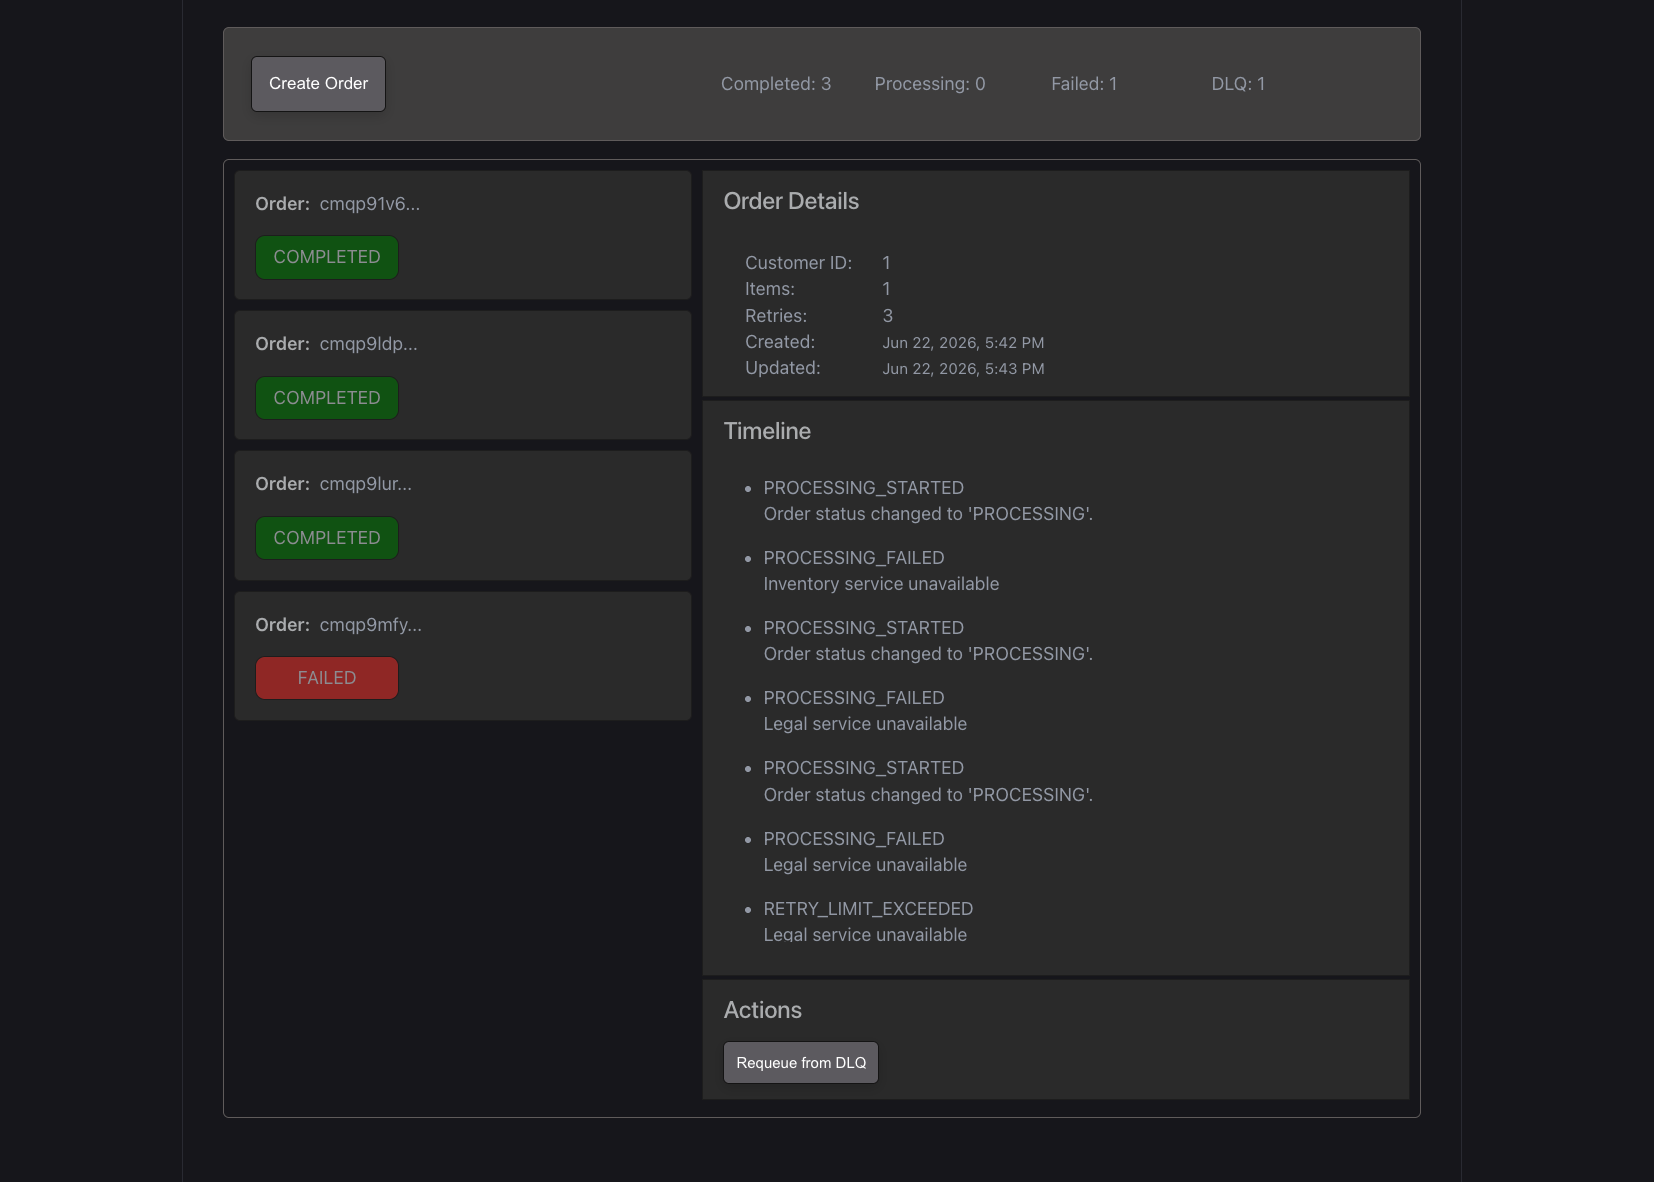
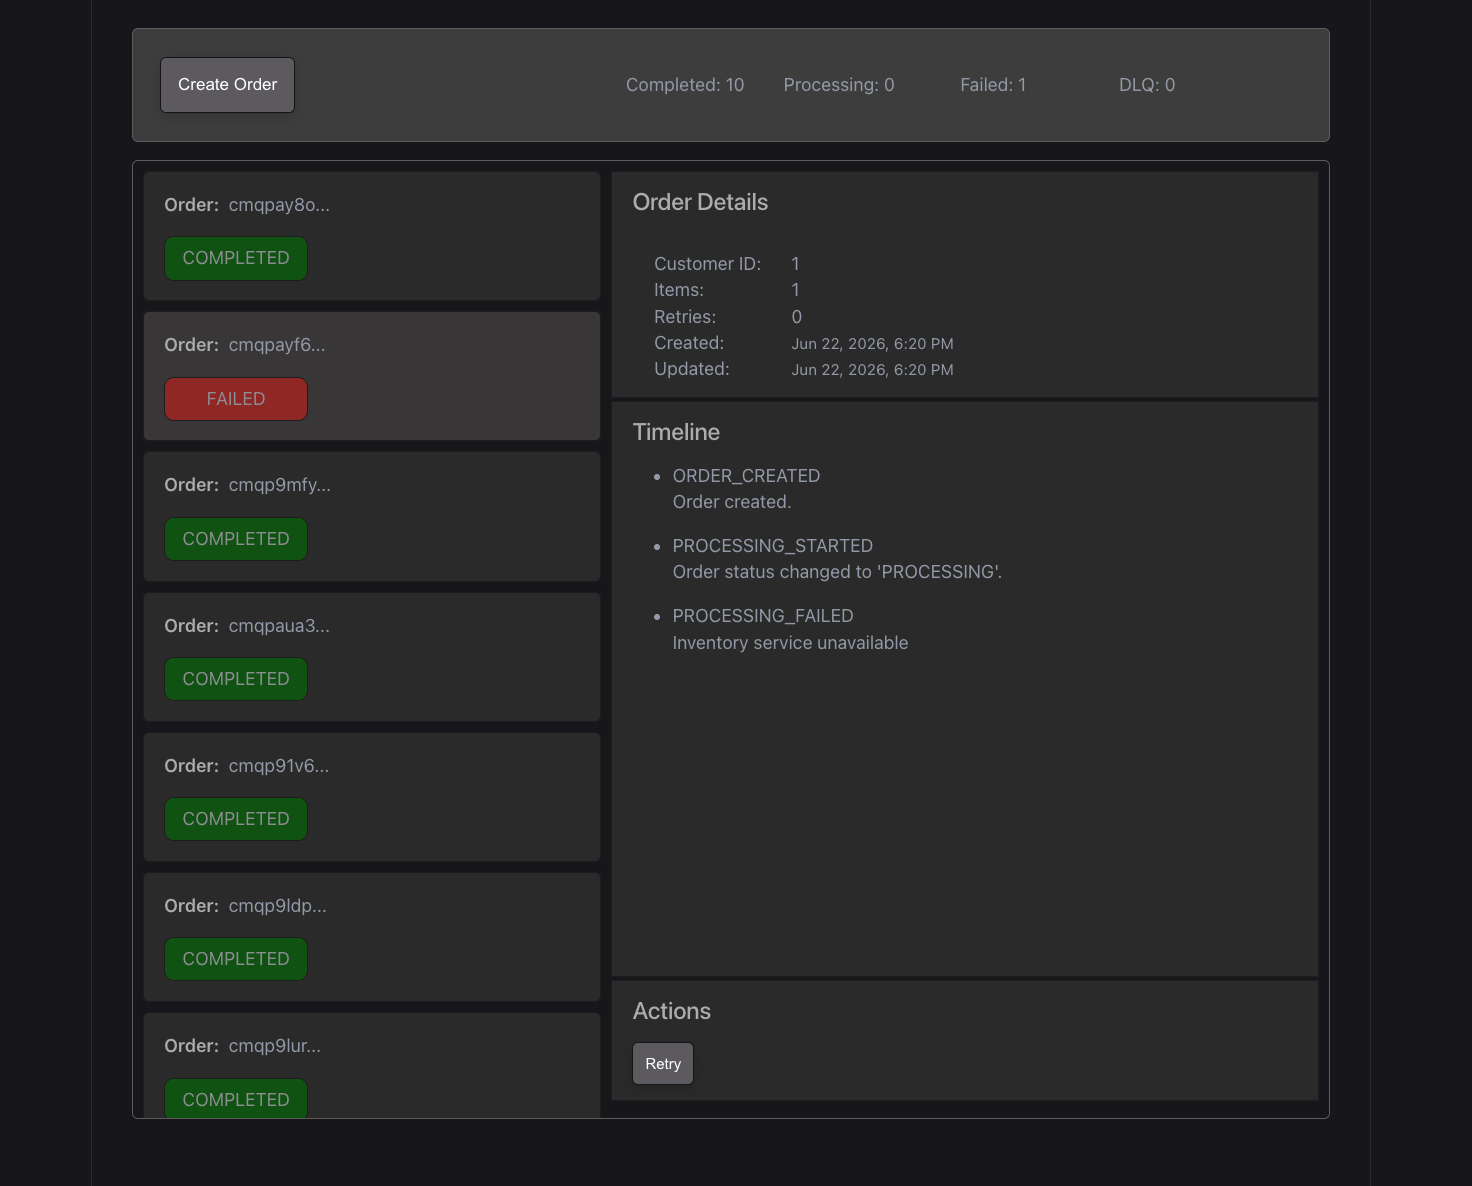
highlight selected order

diff --git a/frontend/src/components/OrdersList.tsx b/frontend/src/components/OrdersList.tsx
@@ -5,11 +5,12 @@ type OrdersListProps = {
     orders: Order[];
     loading: boolean;
     loadError: string | null;
+    selectedOrderId: string | null;
     onOrderClicked: (orderId: string) => void;
 };
 
 export const OrdersList = (
-    { orders, loading, loadError, onOrderClicked }: OrdersListProps
+    { orders, loading, loadError, selectedOrderId, onOrderClicked }: OrdersListProps
 ) => {
 
     if (loading) {
@@ -28,7 +29,9 @@ export const OrdersList = (
                 orders.map(order => (
                     <div
                         key={order.id}
-                        className={styles.orderCard}
+                        className={`${styles.orderCard} ${order.id === selectedOrderId
+                            ? styles.selectedCard
+                            : ''}`}
                         onClick={() => onOrderClicked(order.id)}>
                         <div className={styles.orderHeader}>
                             <span className={styles.orderLabel}>Order:</span> &nbsp;{order.id.slice(0, 8)}...

diff --git a/frontend/src/assets/css/OrdersList.module.css b/frontend/src/assets/css/OrdersList.module.css
@@ -17,6 +17,10 @@
     cursor: pointer;
 }
 
+.selectedCard {
+    background-color: #403e3e;
+}
+
 .orderHeader {
     height: 30%;
     margin-bottom: 1rem;

diff --git a/frontend/src/App.tsx b/frontend/src/App.tsx
@@ -187,6 +187,7 @@ function App() {
           orders={orders}
           loading={ordersLoading}
           loadError={loadOrderError}
+          selectedOrderId={selectedOrderId}
           onOrderClicked={handleOrderSelected}
         />
         <OrderDetails

diff --git a/README.md b/README.md
@@ -89,17 +89,6 @@ Frontend:
 http://localhost:5173
 ```
 
-## Project Structure
-
-```text
-orderflow/
-├── backend/
-├── frontend/
-├── docs/
-├── docker-compose.yml
-└── README.md
-```
-
 ## Project Goals
 
 This project is intended as a portfolio application showcasing: